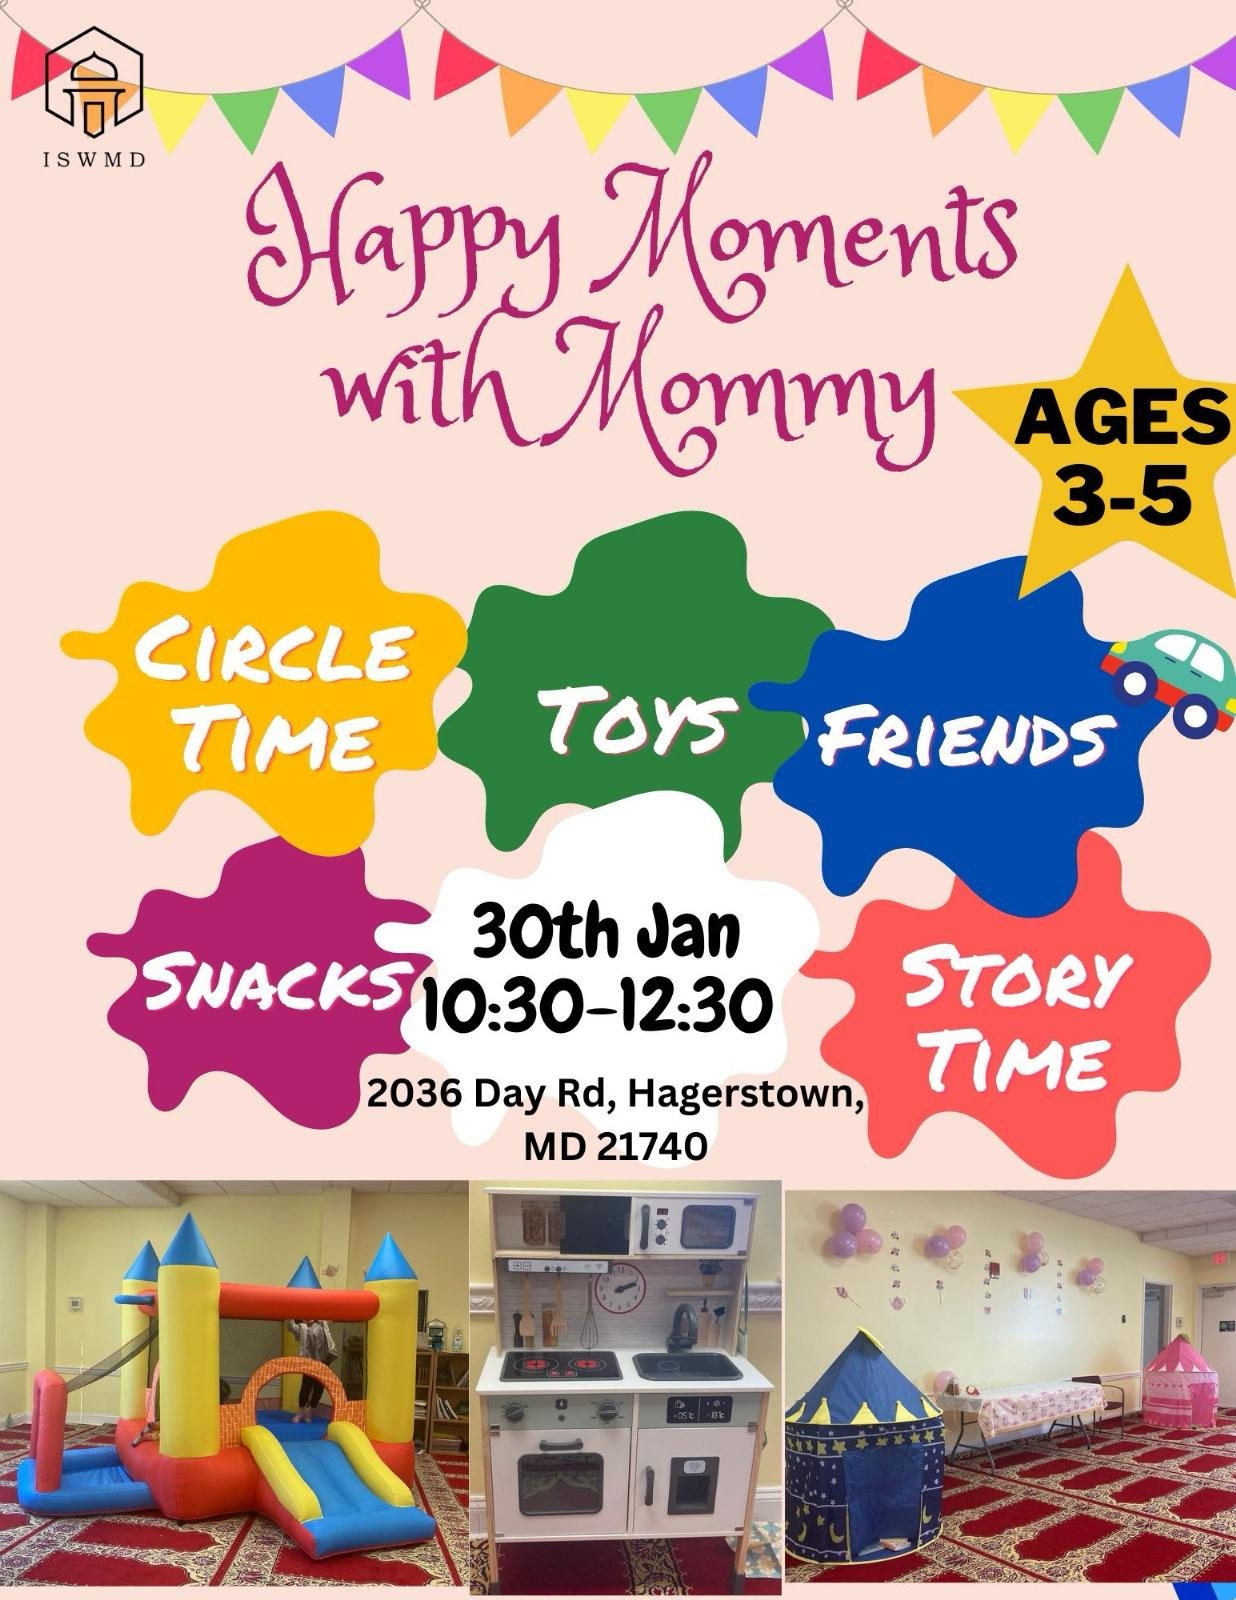
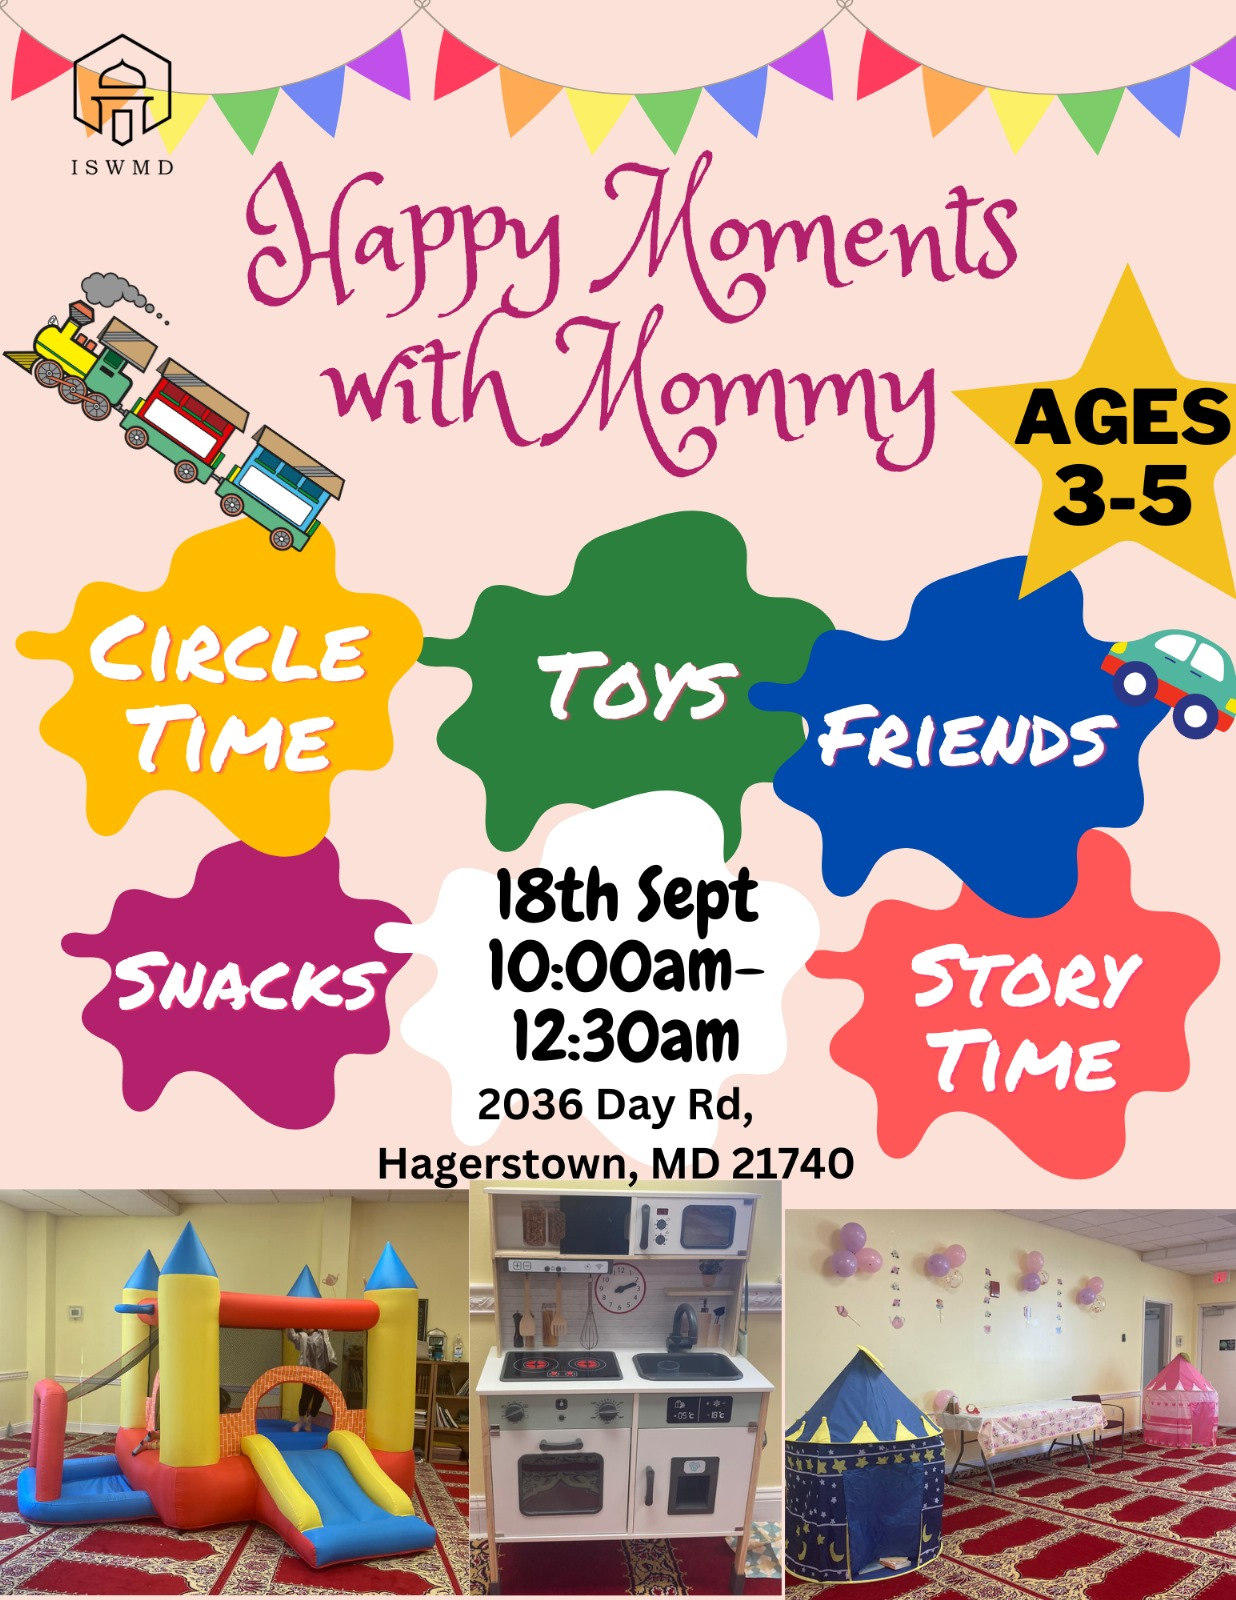
Updated announcements and jummah date

diff --git a/index.html b/index.html
@@ -132,6 +132,48 @@
                 <div class="card mx-auto" style="width: 90%; height: 45%;">
                     <br>
                     <div class="card-body">
+                        <img class="card-img-top" src="assets/boys-halaqah.jpg" alt="Card image cap" height="675" width="300" style="float: left; padding: 3px 3px 10px 3px">
+  
+                        <h5 class="card-title">Boy's Halaqah</h5>
+                        <p class="card-text"> September 22nd, 2:15 to 4:15 pm, 12+ only</p>
+                         <hr>
+                    </div>
+                </div>
+            </div>
+          <br>
+
+            <div class="row">
+                <div class="card mx-auto" style="width: 90%; height: 45%;">
+                    <br>
+                    <div class="card-body">
+                        <img class="card-img-top" src="assets/girls-halaqah.jpg" alt="Card image cap" height="675" width="300" style="float: left; padding: 3px 3px 10px 3px">
+  
+                        <h5 class="card-title">Girl's Halaqah</h5>
+                        <p class="card-text"> September 22nd, 2:15 to 4:15 pm, 12+ only</p>
+                         <hr>
+                    </div>
+                </div>
+            </div>
+          <br>
+
+            <div class="row">
+                <div class="card mx-auto" style="width: 90%; height: 45%;">
+                    <br>
+                    <div class="card-body">
+                        <img class="card-img-top" src="assets/kidsplaytime.jpg" alt="Card image cap" height="675" width="300" style="float: left; padding: 3px 3px 10px 3px">
+  
+                        <h5 class="card-title">Kid's Play Time</h5>
+                        <p class="card-text"> September 18th, 10 am to 12:30 pm</p>
+                         <hr>
+                    </div>
+                </div>
+            </div>
+          <br>
+
+            <div class="row">
+                <div class="card mx-auto" style="width: 90%; height: 45%;">
+                    <br>
+                    <div class="card-body">
                         <img class="card-img-top" src="assets/sunday-school.jpg" alt="Card image cap" height="675" width="300" style="float: left; padding: 3px 3px 10px 3px">
   
                         <h5 class="card-title">Sunday School</h5>
@@ -143,20 +185,6 @@
             </div>
           <br>
     
-            <div class="row">
-                <div class="card mx-auto" style="width: 90%; height: 45%;">
-                    <br>
-                    <div class="card-body">
-                        <img class="card-img-top" src="assets/quran-class.jpg" alt="Card image cap" height="675" width="300" style="float: left; padding: 3px 3px 10px 3px">
-  
-                        <h5 class="card-title">After School Quran Program</h5>
-                        <p class="card-text"> After school Quran program starting September 10th</p>
-                         <hr>
-                         <p class="card-text"> <a class="btn btn-primary" href="https://forms.gle/keHat91tzFjTMEcB9">Registration Form</a>
-                    </div>
-                </div>
-            </div>
-          <br>
 
             <div class="row">
               <div class="card mx-auto" style="width: 90%; height: 45%;">

diff --git a/js/events.js b/js/events.js
@@ -48,7 +48,7 @@ events = [
   {
     title: "Jummah khutba and evening halaqah",
     description: "",
-    date: "Jummah: Fri, August 30, 𝟭:𝟯𝟬𝗽𝗺\nDinner: Before Maghrib\nHalaqah to follow",
+    date: "Jummah: Fri, September 20, 𝟭:𝟯𝟬𝗽𝗺\nDinner: Before Maghrib\nHalaqah to follow",
   },
   
   {
